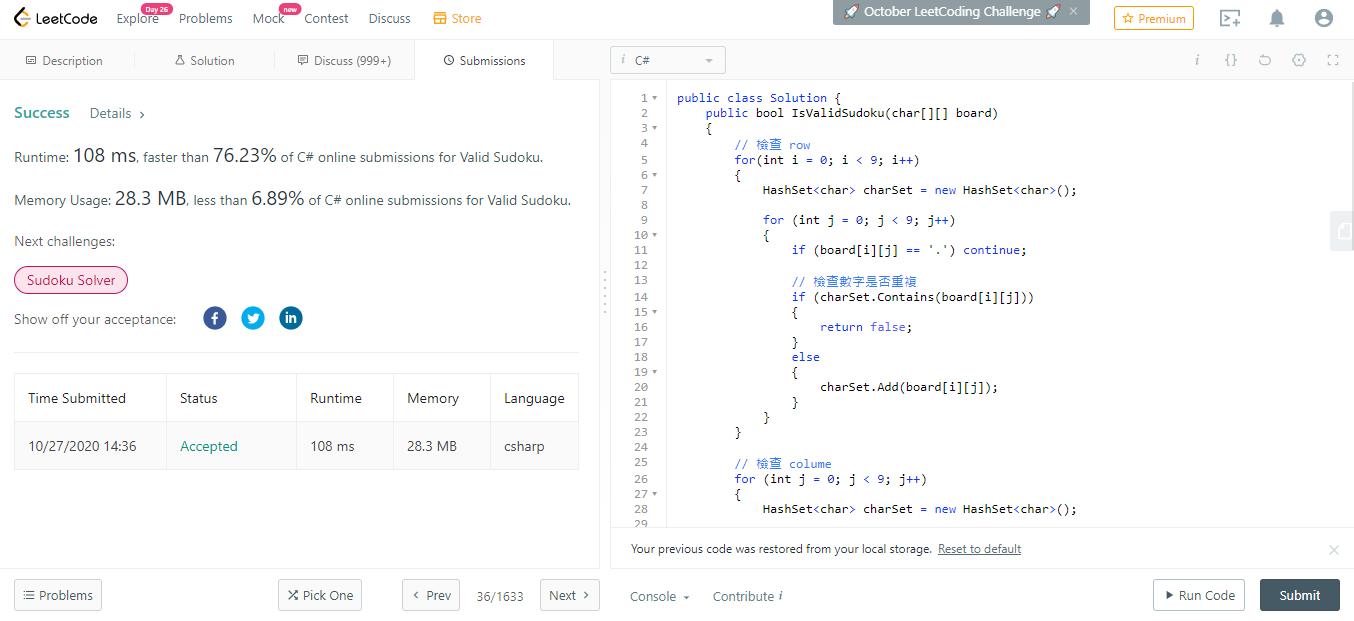
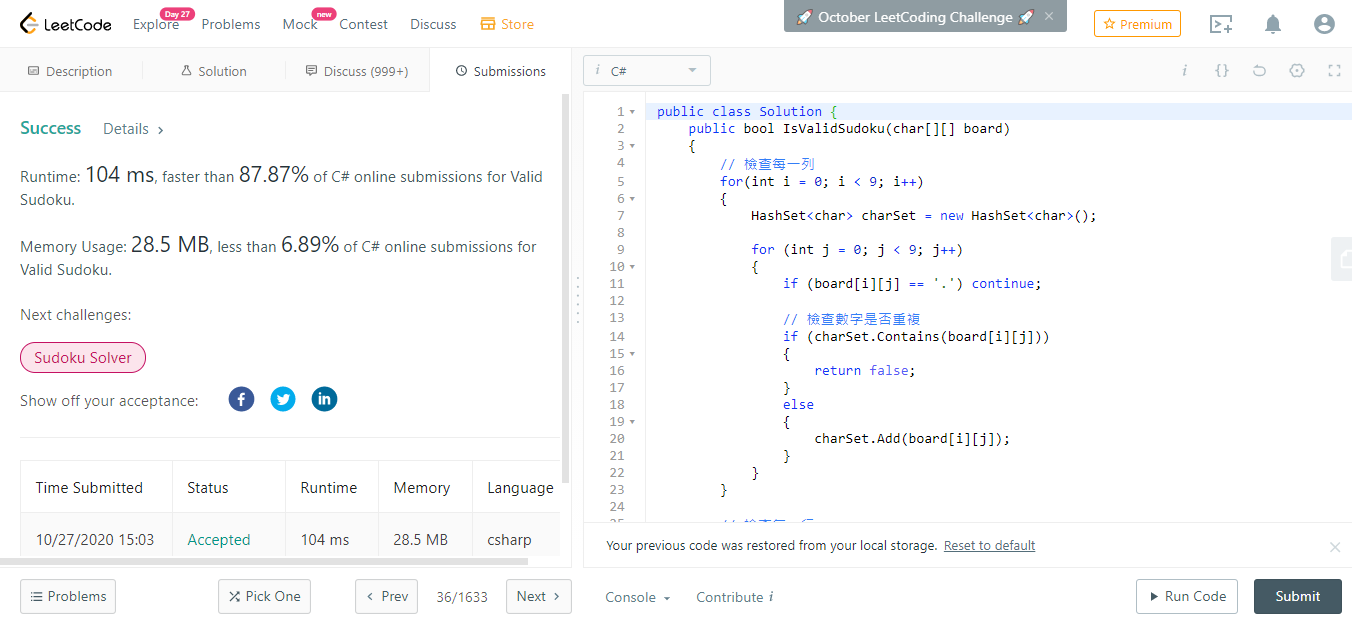
修正錯字 & 調整註解

diff --git a/Q36(Valid Sudoku)/Q36(Valid Sudoku)/Program.cs b/Q36(Valid Sudoku)/Q36(Valid Sudoku)/Program.cs
@@ -12,7 +12,7 @@ namespace Q36_Valid_Sudoku_
 
         public bool IsValidSudoku(char[][] board)
         {
-            // 檢查 row
+            // 檢查每一列
             for(int i = 0; i < 9; i++)
             {
                 HashSet<char> charSet = new HashSet<char>();
@@ -33,7 +33,7 @@ namespace Q36_Valid_Sudoku_
                 }
             }
 
-            // 檢查 colume
+            // 檢查每一行
             for (int j = 0; j < 9; j++)
             {
                 HashSet<char> charSet = new HashSet<char>();
@@ -54,12 +54,12 @@ namespace Q36_Valid_Sudoku_
                 }
             }
 
-            // 檢查 sub-boxes，檢查順序為 box[0] box[3] box[6] box[1] box[4] box[7] ...
+            // 檢查每一個九宮格，檢查順序為 box[0] box[3] box[6] box[1] box[4] box[7] ...
             for (int i = 0; i < 9; i+=3)
             {
                 for (int j = 0; j < 9; j+=3)
                 {
-                    // 檢查當前的box，檢查順序為 box[i][j] box[i][j+1] ...
+                    // 檢查當前的 box，檢查順序為 box[i][j] box[i][j+1] ...
                     HashSet<char> charSet = new HashSet<char>();
 
                     for(int x = i; x < i + 3; x++)
